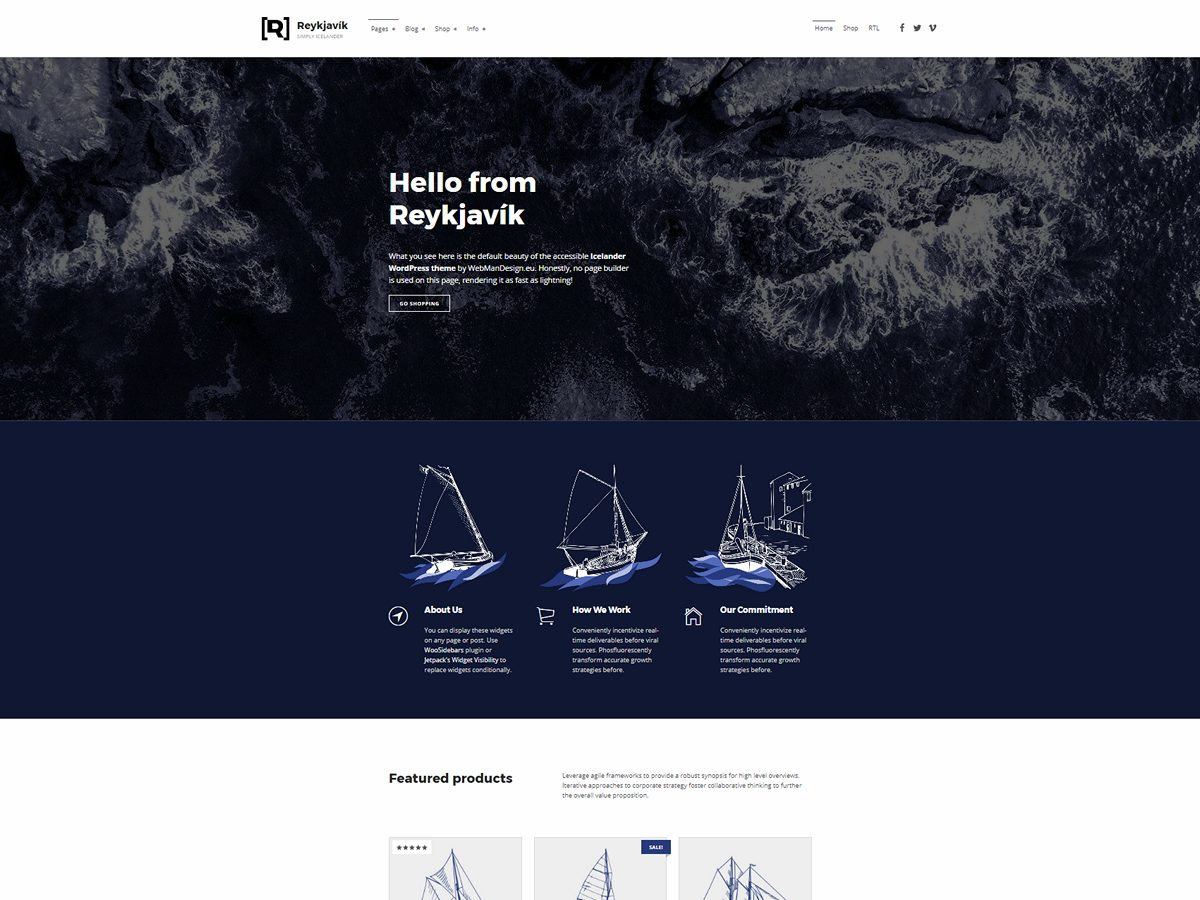
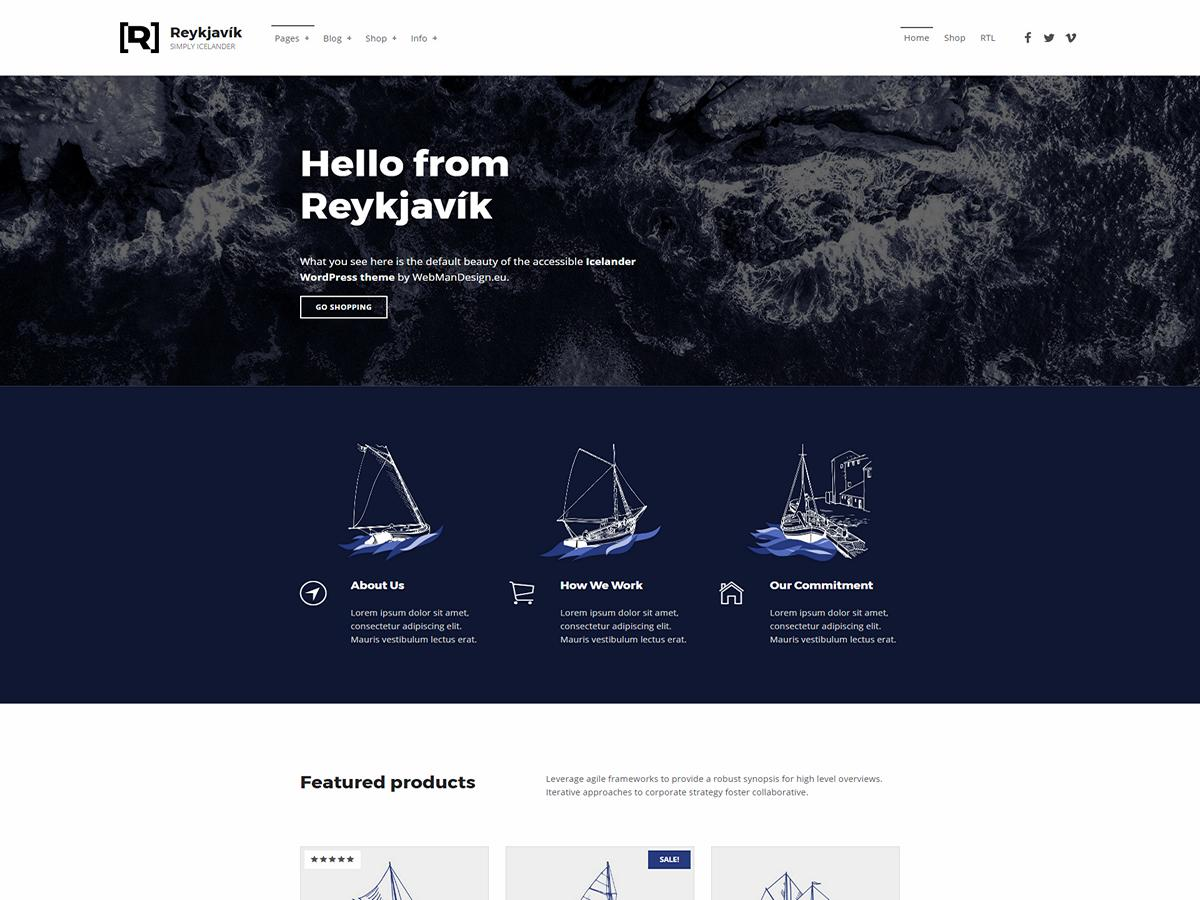
* Checking code * Updating images

diff --git a/includes/frontend/class-post.php b/includes/frontend/class-post.php
@@ -91,9 +91,7 @@ class Reykjavik_Post {
 						add_filter( 'wmhook_reykjavik_post_media_pre', __CLASS__ . '::is_page_builder_ready_maybe_return_empty_string', 100 );
 
 						add_filter( 'wmhook_reykjavik_disable_header', __CLASS__ . '::is_page_template_blank' );
-
 						add_filter( 'wmhook_reykjavik_disable_footer', __CLASS__ . '::is_page_template_blank' );
-
 						add_filter( 'wmhook_reykjavik_breadcrumb_navxt_disabled', __CLASS__ . '::is_page_template_blank' );
 
 						add_filter( 'wmhook_reykjavik_intro_disable', __CLASS__ . '::intro_disable' );
@@ -369,7 +367,7 @@ class Reykjavik_Post {
 
 			// Output
 
-				echo Reykjavik_Library::link_skip_to( 'site-navigation', __( 'Skip back to navigation', 'reykjavik' ), 'focus-position-static' );
+				echo Reykjavik_Library::link_skip_to( 'site-navigation', __( 'Skip back to main navigation', 'reykjavik' ), 'focus-position-static' );
 
 		} // /skip_links
 

diff --git a/includes/custom-header/class-intro.php b/includes/custom-header/class-intro.php
@@ -132,10 +132,10 @@ class Reykjavik_Intro {
 
 					register_default_headers( array(
 
-							'unsplash-matt-howard-248421' => array(
-								'url'           => '%s/assets/images/header/unsplash-matt-howard-248421.jpg',
-								'thumbnail_url' => '%s/assets/images/header/thumbnail/unsplash-matt-howard-248421.jpg',
-								'description'   => esc_html_x( 'Cliffs', 'Header image description.', 'reykjavik' ),
+							'pixabay-colorado-1436681' => array(
+								'url'           => '%s/assets/images/header/pixabay-colorado-1436681.png',
+								'thumbnail_url' => '%s/assets/images/header/thumbnail/pixabay-colorado-1436681.png',
+								'description'   => esc_html_x( 'Mountains drawing', 'Header image description.', 'reykjavik' ),
 							),
 
 						) );

diff --git a/includes/tgmpa/class-tgmpa-plugins.php b/includes/tgmpa/class-tgmpa-plugins.php
@@ -119,14 +119,6 @@ class Reykjavik_TGMPA_Plugins {
 									'is_callable' => 'FLBuilder::init',
 								),
 
-								'webman-templates' => array(
-									'name'        => 'WebMan Templates',
-									'description' => esc_html__( 'Adding set of predefined templates for Beaver Builder page builder.', 'reykjavik' ),
-									'slug'        => 'webman-templates',
-									'required'    => false,
-									'source'      => 'https://webmandesign.github.io/webman-templates/downloads/webman-templates.zip',
-								),
-
 								'advanced-custom-fields' => array(
 									'name'        => 'Advanced Custom Fields',
 									'description' => esc_html__( 'For easy post and page attributes setup.', 'reykjavik' ),

diff --git a/includes/frontend/class-menu.php b/includes/frontend/class-menu.php
@@ -52,7 +52,6 @@ class Reykjavik_Menu {
 						add_action( 'tha_header_top', __CLASS__ . '::secondary', 30 );
 
 						add_action( 'tha_header_top', __CLASS__ . '::social', 40 );
-
 						add_action( 'wmhook_reykjavik_site_info_after', __CLASS__ . '::social' );
 
 						add_action( 'wp_update_nav_menu',   __CLASS__ . '::social_cache_flush' );
@@ -73,7 +72,7 @@ class Reykjavik_Menu {
 
 						add_filter( 'widget_nav_menu_args', __CLASS__ . '::social_widget', 10, 3 );
 
-						add_filter( 'wp_nav_menu', __CLASS__ . '::mobile_menu_search', 20, 2 ); // See below for priority info
+						add_filter( 'wp_nav_menu', __CLASS__ . '::mobile_menu_search', 20, 2 ); // See below for priority info.
 
 		} // /__construct
 

diff --git a/includes/plugins/jetpack/class-jetpack.php b/includes/plugins/jetpack/class-jetpack.php
@@ -72,9 +72,7 @@ class Reykjavik_Jetpack {
 					// Filters
 
 						add_filter( 'jetpack_sharing_display_markup', 'Reykjavik_Content::headings_level_up', 999 );
-
 						add_filter( 'jetpack_relatedposts_filter_headline', 'Reykjavik_Content::headings_level_up', 999 );
-
 						add_filter( 'jetpack_relatedposts_filter_post_heading', 'Reykjavik_Content::headings_level_up', 999 );
 
 						add_filter( 'sharing_show', __CLASS__ . '::sharing_show', 10, 2 );

diff --git a/includes/setup/class-setup.php b/includes/setup/class-setup.php
@@ -132,14 +132,9 @@ class Reykjavik_Setup {
 		 */
 		public static function installation() {
 
-			// Helper variables
-
-				$installed = get_theme_mod( '__theme_installed' );
-
-
 			// Requirements check
 
-				if ( $installed ) {
+				if ( get_theme_mod( '__theme_installed' ) ) {
 					return;
 				}
 

diff --git a/includes/welcome/class-welcome.php b/includes/welcome/class-welcome.php
@@ -92,7 +92,7 @@ class Reykjavik_Welcome {
 
 				$sections = (array) apply_filters( 'wmhook_reykjavik_welcome_render_sections', array(
 						0   => 'header',
-						10   => 'promo',
+						10  => 'promo',
 						20  => 'quickstart',
 						30  => 'filesystem',
 						40  => 'demo',
